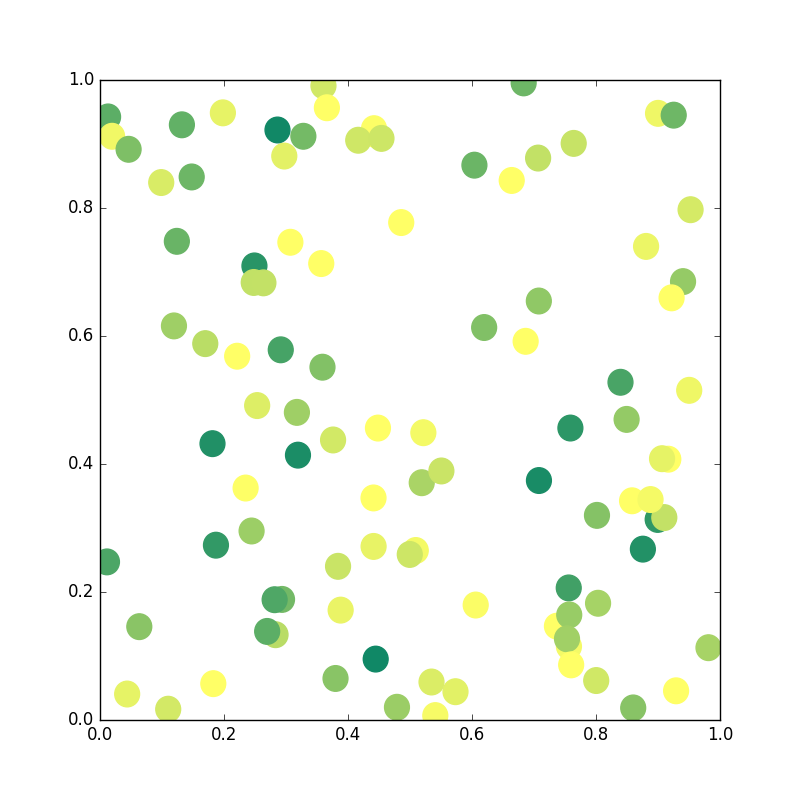
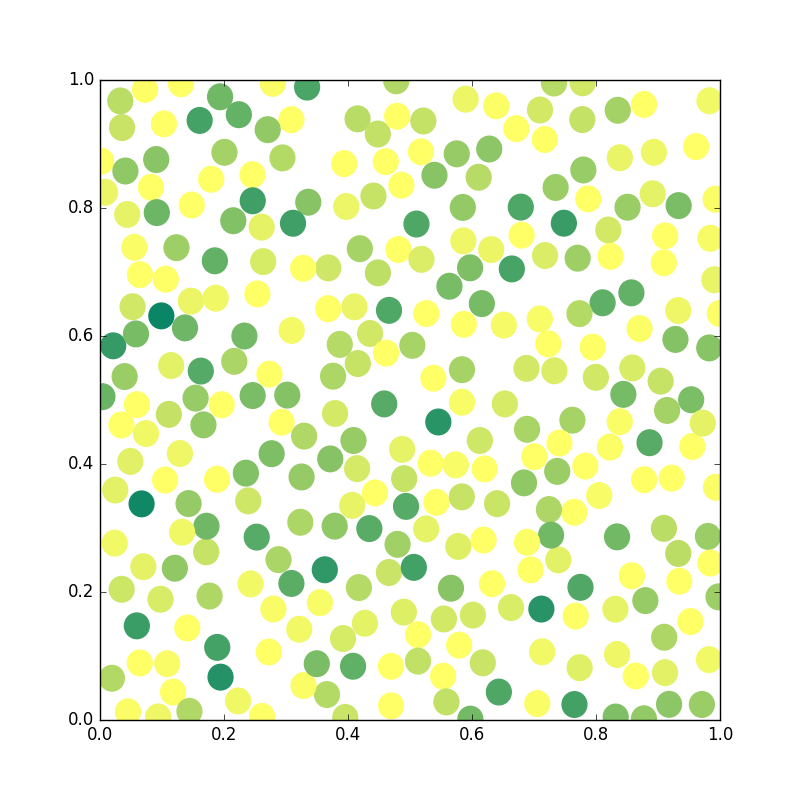
Warunek na nie nakladanie sie czastek

diff --git a/zad2.py b/zad2.py
@@ -10,19 +10,31 @@ class czastka:
 
 gaz = [] # zbiornik na czastki
 liczba_czastek = 100
-c = plt.cm.summer(0.5)
-fig, ax = plt.subplots( figsize=(8,8) )
+promien = 0.02
+fig, ax = plt.subplots(figsize=(8,8))
 
-for i in xrange(liczba_czastek):
-    polozenie = np.array([np.random.uniform(0.,1.), np.random.uniform(0.,1.)])
-    predkosc = np.array([np.random.uniform(0.,1.), np.random.uniform(0.,1.)])
-    andrzej = czastka(0.02,polozenie,predkosc)
-    gaz.append(andrzej)
+def losowanie (liczba_czastek, promien, tabela):
+    for i in xrange(liczba_czastek):
+        polozenie = np.array([np.random.uniform(0.,1.), np.random.uniform(0.,1.)])
+        predkosc = np.array([np.random.uniform(0.,1.), np.random.uniform(0.,1.)])
+        nakladanie = False
+        for i in gaz:
+            if ((i.r[0] - polozenie[0])**2 + (i.r[1] - polozenie[1])**2) < (2*promien)**2:
+                nakladanie = True
+                print 'najezdca'
+        if nakladanie == False:
+            andrzej = czastka(promien, polozenie, predkosc)
+            gaz.append(andrzej)
+
+while (len(gaz) < liczba_czastek):
+    losowanie(liczba_czastek, promien, gaz)
 
 for i in xrange(liczba_czastek):
     c = plt.cm.summer(np.linalg.norm(gaz[i].v))
-    kolko = plt.Circle((gaz[i].r), 0.02, color = c)
+    kolko = plt.Circle((gaz[i].r), promien, color = c)
     ax.add_artist(kolko)
-
 fig.savefig('kolka.png')
+print len(gaz)
+for i in gaz:
+    print i.r
 plt.show()
